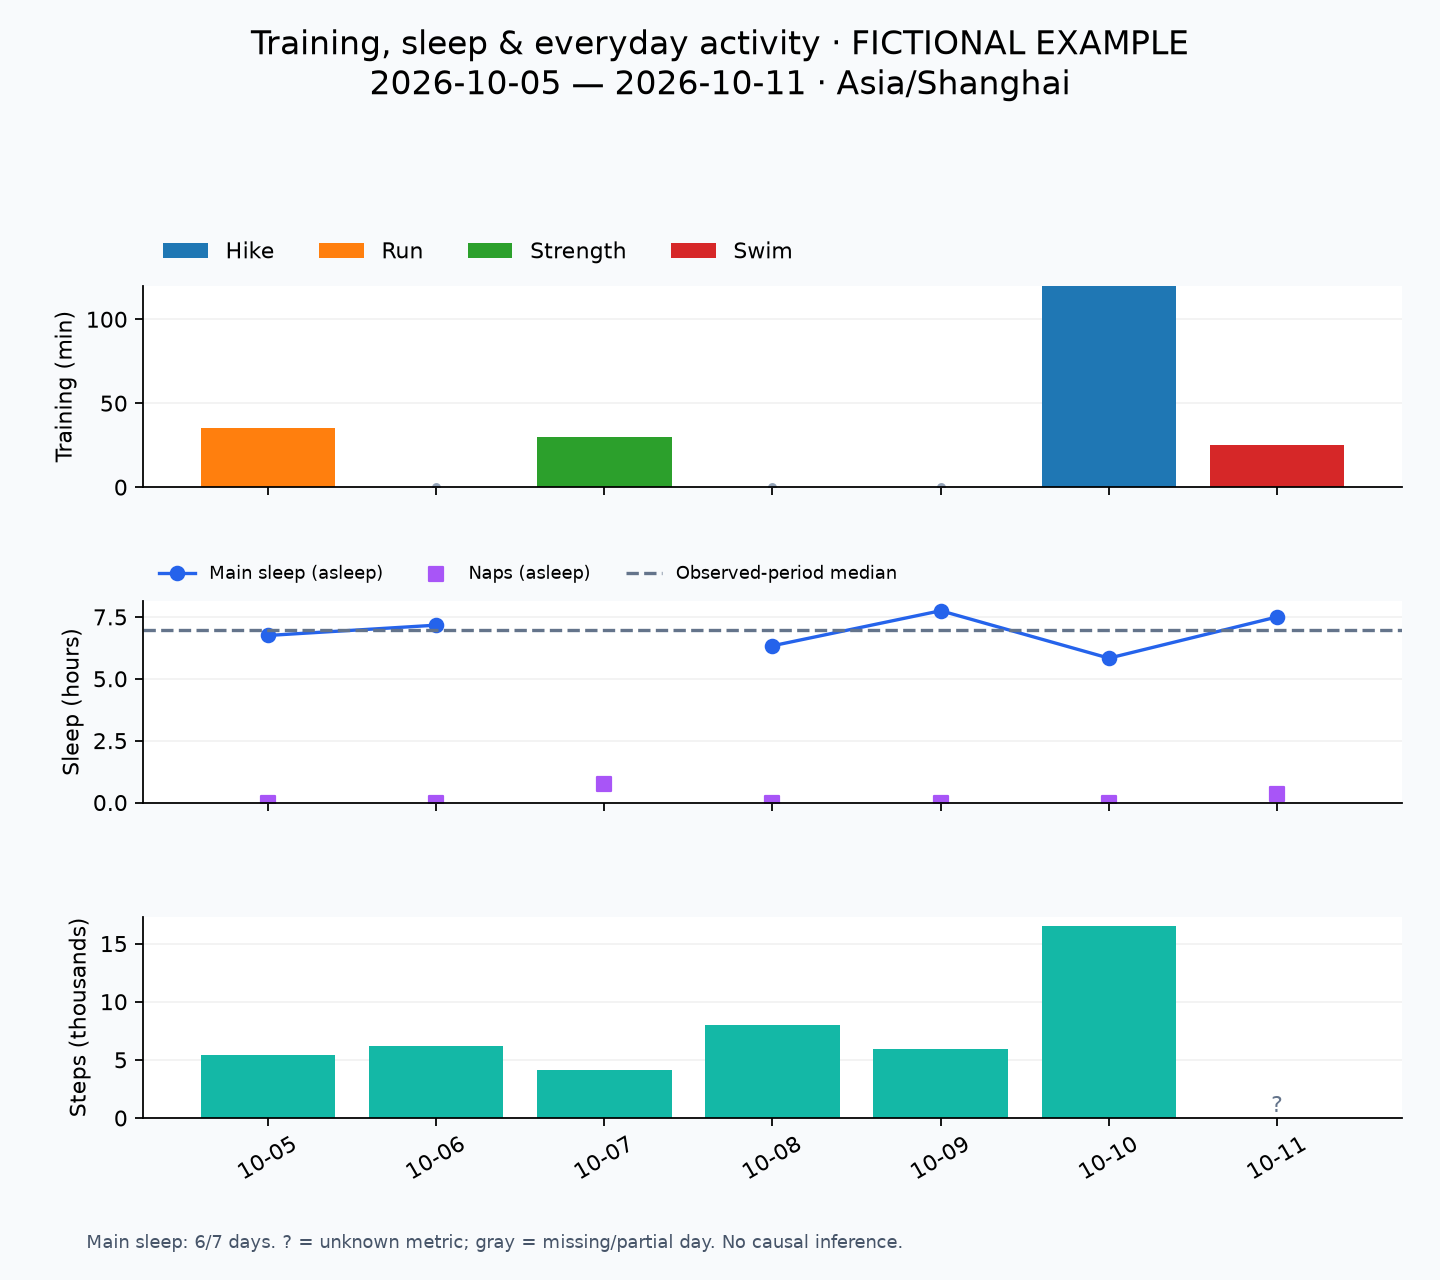
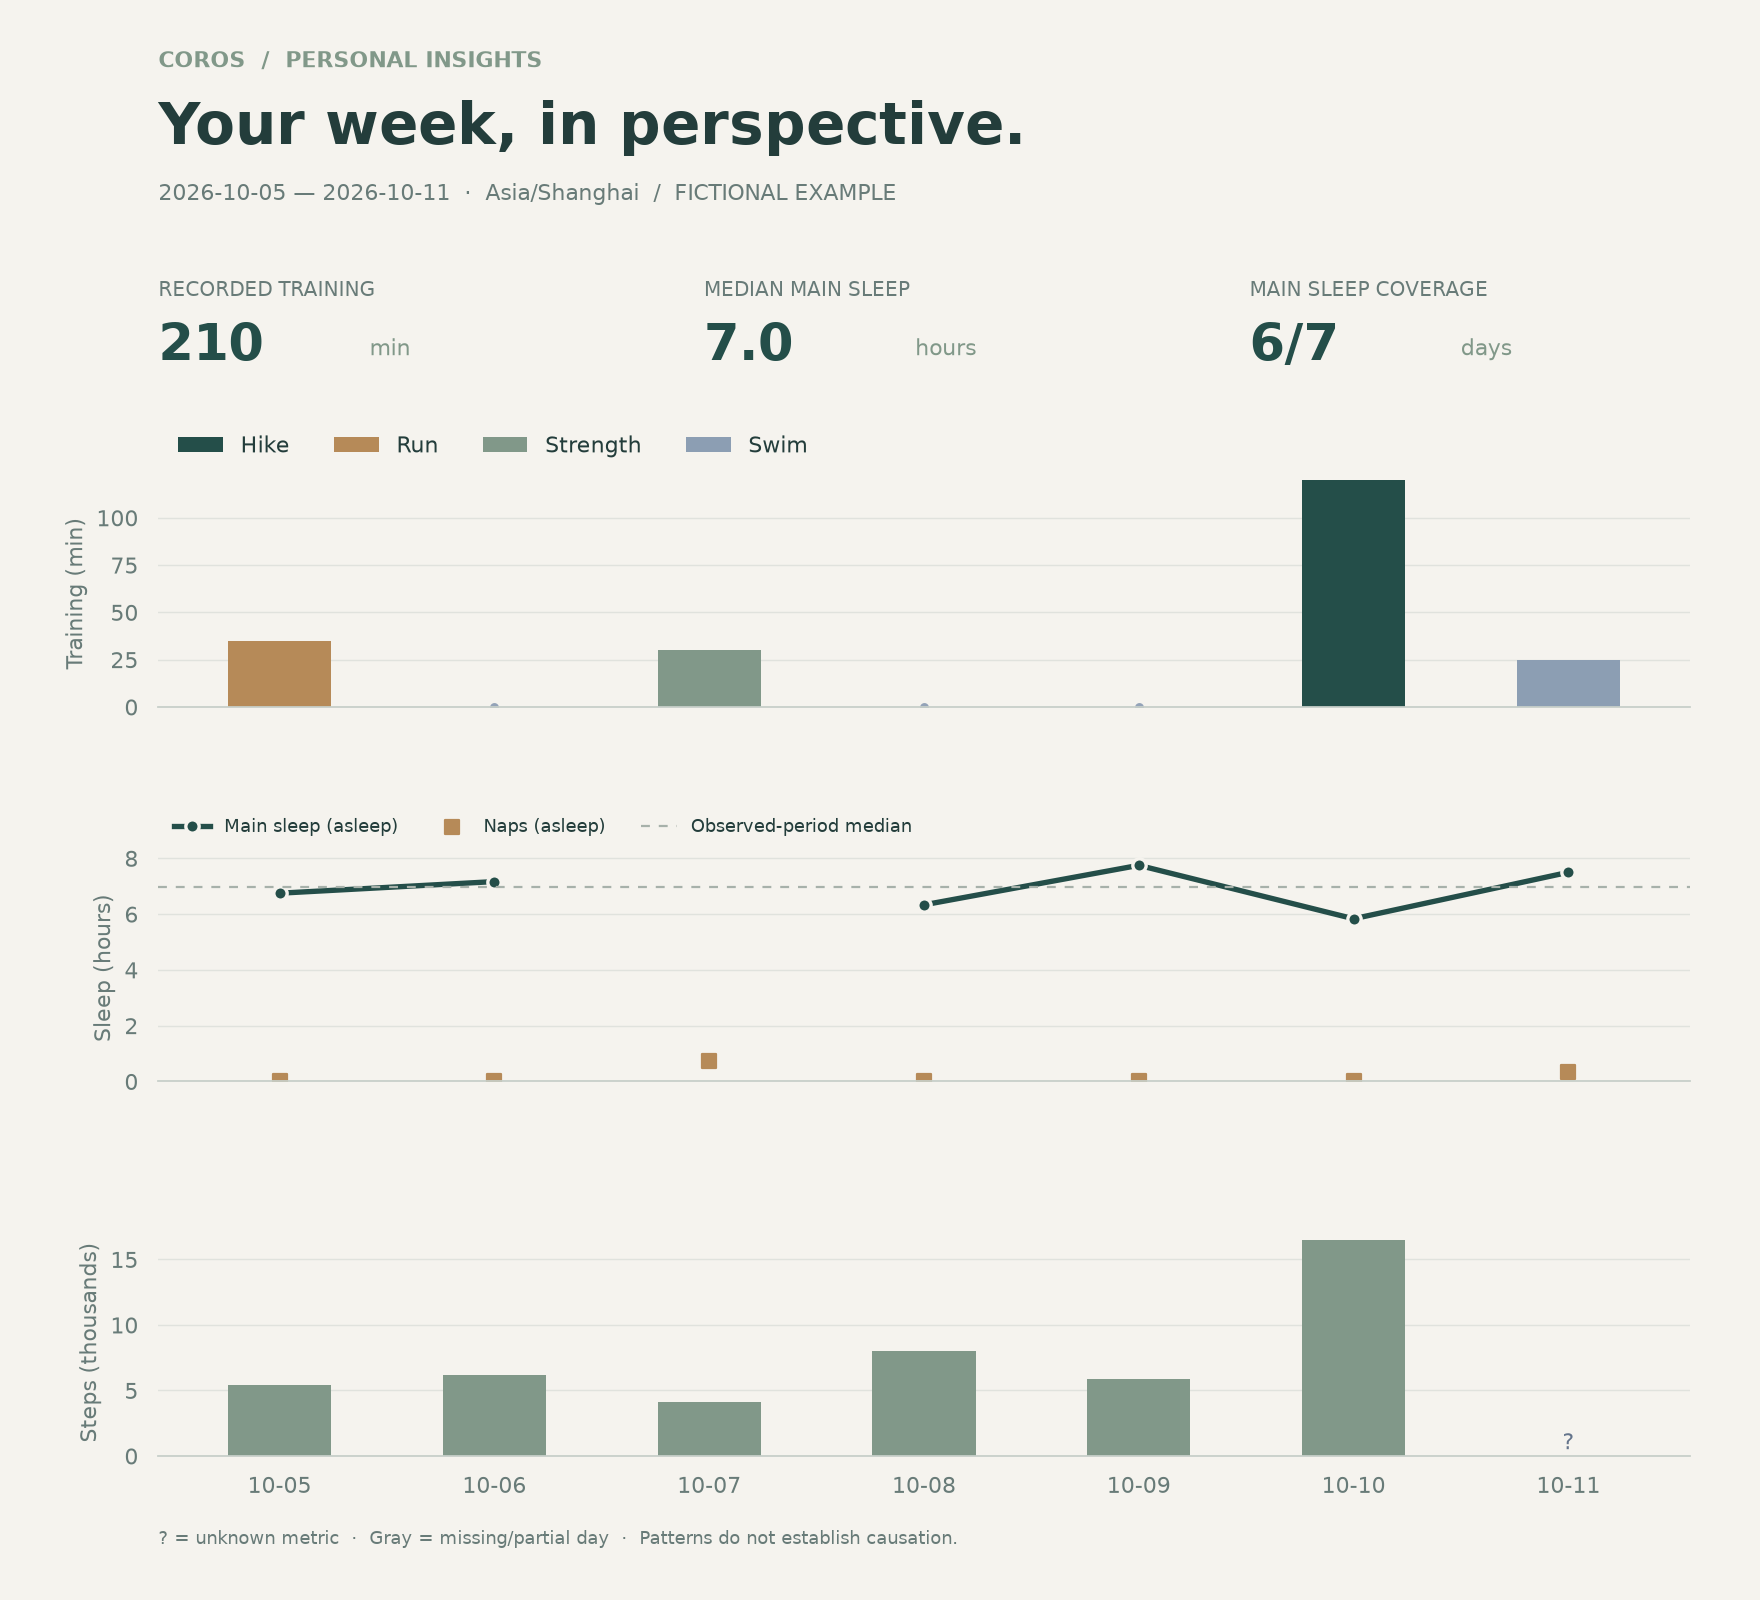
Refine charts with editorial layout and muted palette

diff --git a/skills/coros-analysis/scripts/render_review.py b/skills/coros-analysis/scripts/render_review.py
@@ -96,15 +96,17 @@ def render(data, output):
     val = lambda r,k: r[k] if complete(r) and r.get(k) is not None else float('nan')
     metrics = summary(data)
     n = len(dates)
-    fig, axes = plt.subplots(3, 1, figsize=(max(9, min(18, n*.42)), 8), sharex=True)
-    fig.patch.set_facecolor('#f8fafc')
+    plt.rcParams.update({'font.size': 10, 'text.color': '#233d3b', 'axes.labelcolor': '#687b78', 'xtick.color': '#687b78', 'ytick.color': '#687b78'})
+    fig, axes = plt.subplots(3, 1, figsize=(max(11, min(18, n*.42)), 10), sharex=True)
+    fig.patch.set_facecolor('#f5f3ee')
     sports = sorted({a['sport'] for r in daily if complete(r) for a in r.get('training') or []})
-    palette = plt.get_cmap('tab10')
+    colors = ['#244e49', '#b68a58', '#819889', '#8c9eb3', '#b17f75', '#9d91a6']
+    palette = lambda i: colors[i % len(colors)]
     bottoms = [0.]*n
     handles = []
     for i, sport in enumerate(sports):
         values = [sum(a['minutes'] for a in r.get('training') or [] if a['sport']==sport) if complete(r) and r.get('training') is not None else 0 for r in daily]
-        bars = axes[0].bar(range(n), values, bottom=bottoms, color=palette(i%10), label=({'Hike':'徒步','Run':'跑步','Strength':'力量','Swim':'游泳','Hiking':'徒步','Swimming':'游泳'}.get(sport,sport) if zh else sport))
+        bars = axes[0].bar(range(n), values, bottom=bottoms, width=.48, color=palette(i%10), label=({'Hike':'徒步','Run':'跑步','Strength':'力量','Swim':'游泳','Hiking':'徒步','Swimming':'游泳'}.get(sport,sport) if zh else sport))
         handles.append(bars)
         bottoms = [a+b for a,b in zip(bottoms, values)]
     # Explicit markers distinguish unknown training from known empty lists.
@@ -118,36 +120,50 @@ def render(data, output):
     axes[0].set_ylabel('训练（分钟）' if zh else 'Training (min)')
     main = [val(r,'main_sleep_minutes')/60 for r in daily]
     naps = [val(r,'nap_minutes')/60 for r in daily]
-    axes[1].plot(range(n), main, 'o-', color='#2563eb', label='主睡眠（入睡）' if zh else 'Main sleep (asleep)')
+    axes[1].plot(range(n), main, 'o-', linewidth=2.4, markersize=6, markeredgecolor='#f5f3ee', markeredgewidth=1.5, color='#244e49', label='主睡眠（入睡）' if zh else 'Main sleep (asleep)')
     # Naps are separate dots, never silently added to a missing main sleep.
-    axes[1].scatter(range(n), naps, marker='s', color='#a855f7', label='午睡（入睡）' if zh else 'Naps (asleep)')
+    axes[1].scatter(range(n), naps, marker='s', color='#b68a58', label='午睡（入睡）' if zh else 'Naps (asleep)')
     if metrics['main_sleep_median_minutes'] is not None:
-        axes[1].axhline(metrics['main_sleep_median_minutes']/60, linestyle='--', color='#64748b', label='本期观测中位数' if zh else 'Observed-period median')
+        axes[1].axhline(metrics['main_sleep_median_minutes']/60, linestyle=(0,(4,4)), linewidth=1, color='#a7b1aa', label='本期观测中位数' if zh else 'Observed-period median')
     axes[1].set_ylabel('睡眠（小时）' if zh else 'Sleep (hours)')
     axes[1].legend(loc='lower left', bbox_to_anchor=(0,1.01), ncol=3, fontsize=8, frameon=False)
-    axes[2].bar(range(n), [val(r,'steps')/1000 for r in daily], color='#14b8a6')
+    axes[2].bar(range(n), [val(r,'steps')/1000 for r in daily], width=.48, color='#819889')
     axes[2].set_ylabel('步数（千步）' if zh else 'Steps (thousands)')
     for i, r in enumerate(daily):
         if complete(r) and r.get('steps') is None:
             axes[2].text(i,.03,'?', transform=axes[2].get_xaxis_transform(), ha='center', color='#64748b')
     for ax in axes:
-        ax.set_facecolor('white')
+        ax.set_facecolor('#f5f3ee')
         ax.set_ylim(bottom=0)
-        ax.grid(axis='y', alpha=.16)
+        ax.grid(axis='y', color='#c7cfc9', linewidth=.65, alpha=.45)
         ax.set_axisbelow(True)
-        ax.spines[['top','right']].set_visible(False)
+        ax.spines[['top','right','left']].set_visible(False)
+        ax.spines['bottom'].set_color('#c7cfc9')
+        ax.tick_params(axis='both', length=0, pad=9)
         for i,r in enumerate(daily):
             if not complete(r):
                 ax.axvspan(i-.48,i+.48,color='#cbd5e1',alpha=.3)
     stride=max(1,math.ceil(n/14))
-    axes[2].set_xticks(list(range(0,n,stride)), [d.strftime('%m-%d') for d in dates[::stride]], rotation=30)
-    title='训练、睡眠与日常活动' if zh else 'Training, sleep & everyday activity'
+    axes[2].set_xticks(list(range(0,n,stride)), [d.strftime('%m-%d') for d in dates[::stride]], rotation=0)
+    title='每周状态观察' if zh else 'Your week, in perspective.'
+    fig.text(.09,.958,'COROS  /  PERSONAL INSIGHTS',fontsize=10,color='#819889',weight='bold')
+    fig.text(.09,.91,title,fontsize=26,weight='bold',color='#233d3b')
+    subtitle=f"{first} — {last}  ·  {data['timezone']}"
     if data.get('synthetic') is True:
-        title += ' · 虚构示例' if zh else ' · FICTIONAL EXAMPLE'
-    fig.suptitle(f"{title}\n{first} — {last} · {data['timezone']}", fontsize=15, y=.98)
-    note=(f"主睡眠覆盖 {metrics['main_sleep_observed_days']}/{metrics['calendar_days']} 天；? = 该项数据未知；灰色 = 缺失日/未完整日。图示不证明因果。" if zh else f"Main sleep: {metrics['main_sleep_observed_days']}/{metrics['calendar_days']} days. ? = unknown metric; gray = missing/partial day. No causal inference.")
-    fig.text(.06,.025,note,fontsize=8,color='#475569')
-    fig.tight_layout(rect=(.02,.055,.99,.92), h_pad=2.5)
+        subtitle += '  /  虚构示例' if zh else '  /  FICTIONAL EXAMPLE'
+    fig.text(.09,.875,subtitle,fontsize=10,color='#687b78')
+    total=sum(metrics['recorded_training_minutes_by_sport'].values())
+    sleep=metrics['main_sleep_median_minutes']
+    cards=[('已记录训练' if zh else 'RECORDED TRAINING',f'{total:.0f}', '分钟' if zh else 'min'),
+           ('主睡眠中位数' if zh else 'MEDIAN MAIN SLEEP',f'{sleep/60:.1f}' if sleep is not None else '—','小时' if zh else 'hours'),
+           ('主睡眠覆盖' if zh else 'MAIN SLEEP COVERAGE',f"{metrics['main_sleep_observed_days']}/{metrics['calendar_days']}",'天' if zh else 'days')]
+    for x,(label,value,unit) in zip([.09,.40,.71],cards):
+        fig.text(x,.815,label,fontsize=9,color='#687b78')
+        fig.text(x,.775,value,fontsize=23,weight='bold',color='#244e49')
+        fig.text(x+.12,.778,unit,fontsize=10,color='#819889')
+    note=('? = 该项数据未知；灰色 = 缺失日/未完整日。图示不证明因果。' if zh else '? = unknown metric  ·  Gray = missing/partial day  ·  Patterns do not establish causation.')
+    fig.text(.09,.035,note,fontsize=8,color='#687b78')
+    fig.subplots_adjust(left=.09,right=.96,bottom=.09,top=.70,hspace=.65)
     output=Path(output)
     if output.suffix.lower() not in ('.png','.svg'):
         raise ValueError('Output must be .png or .svg')
